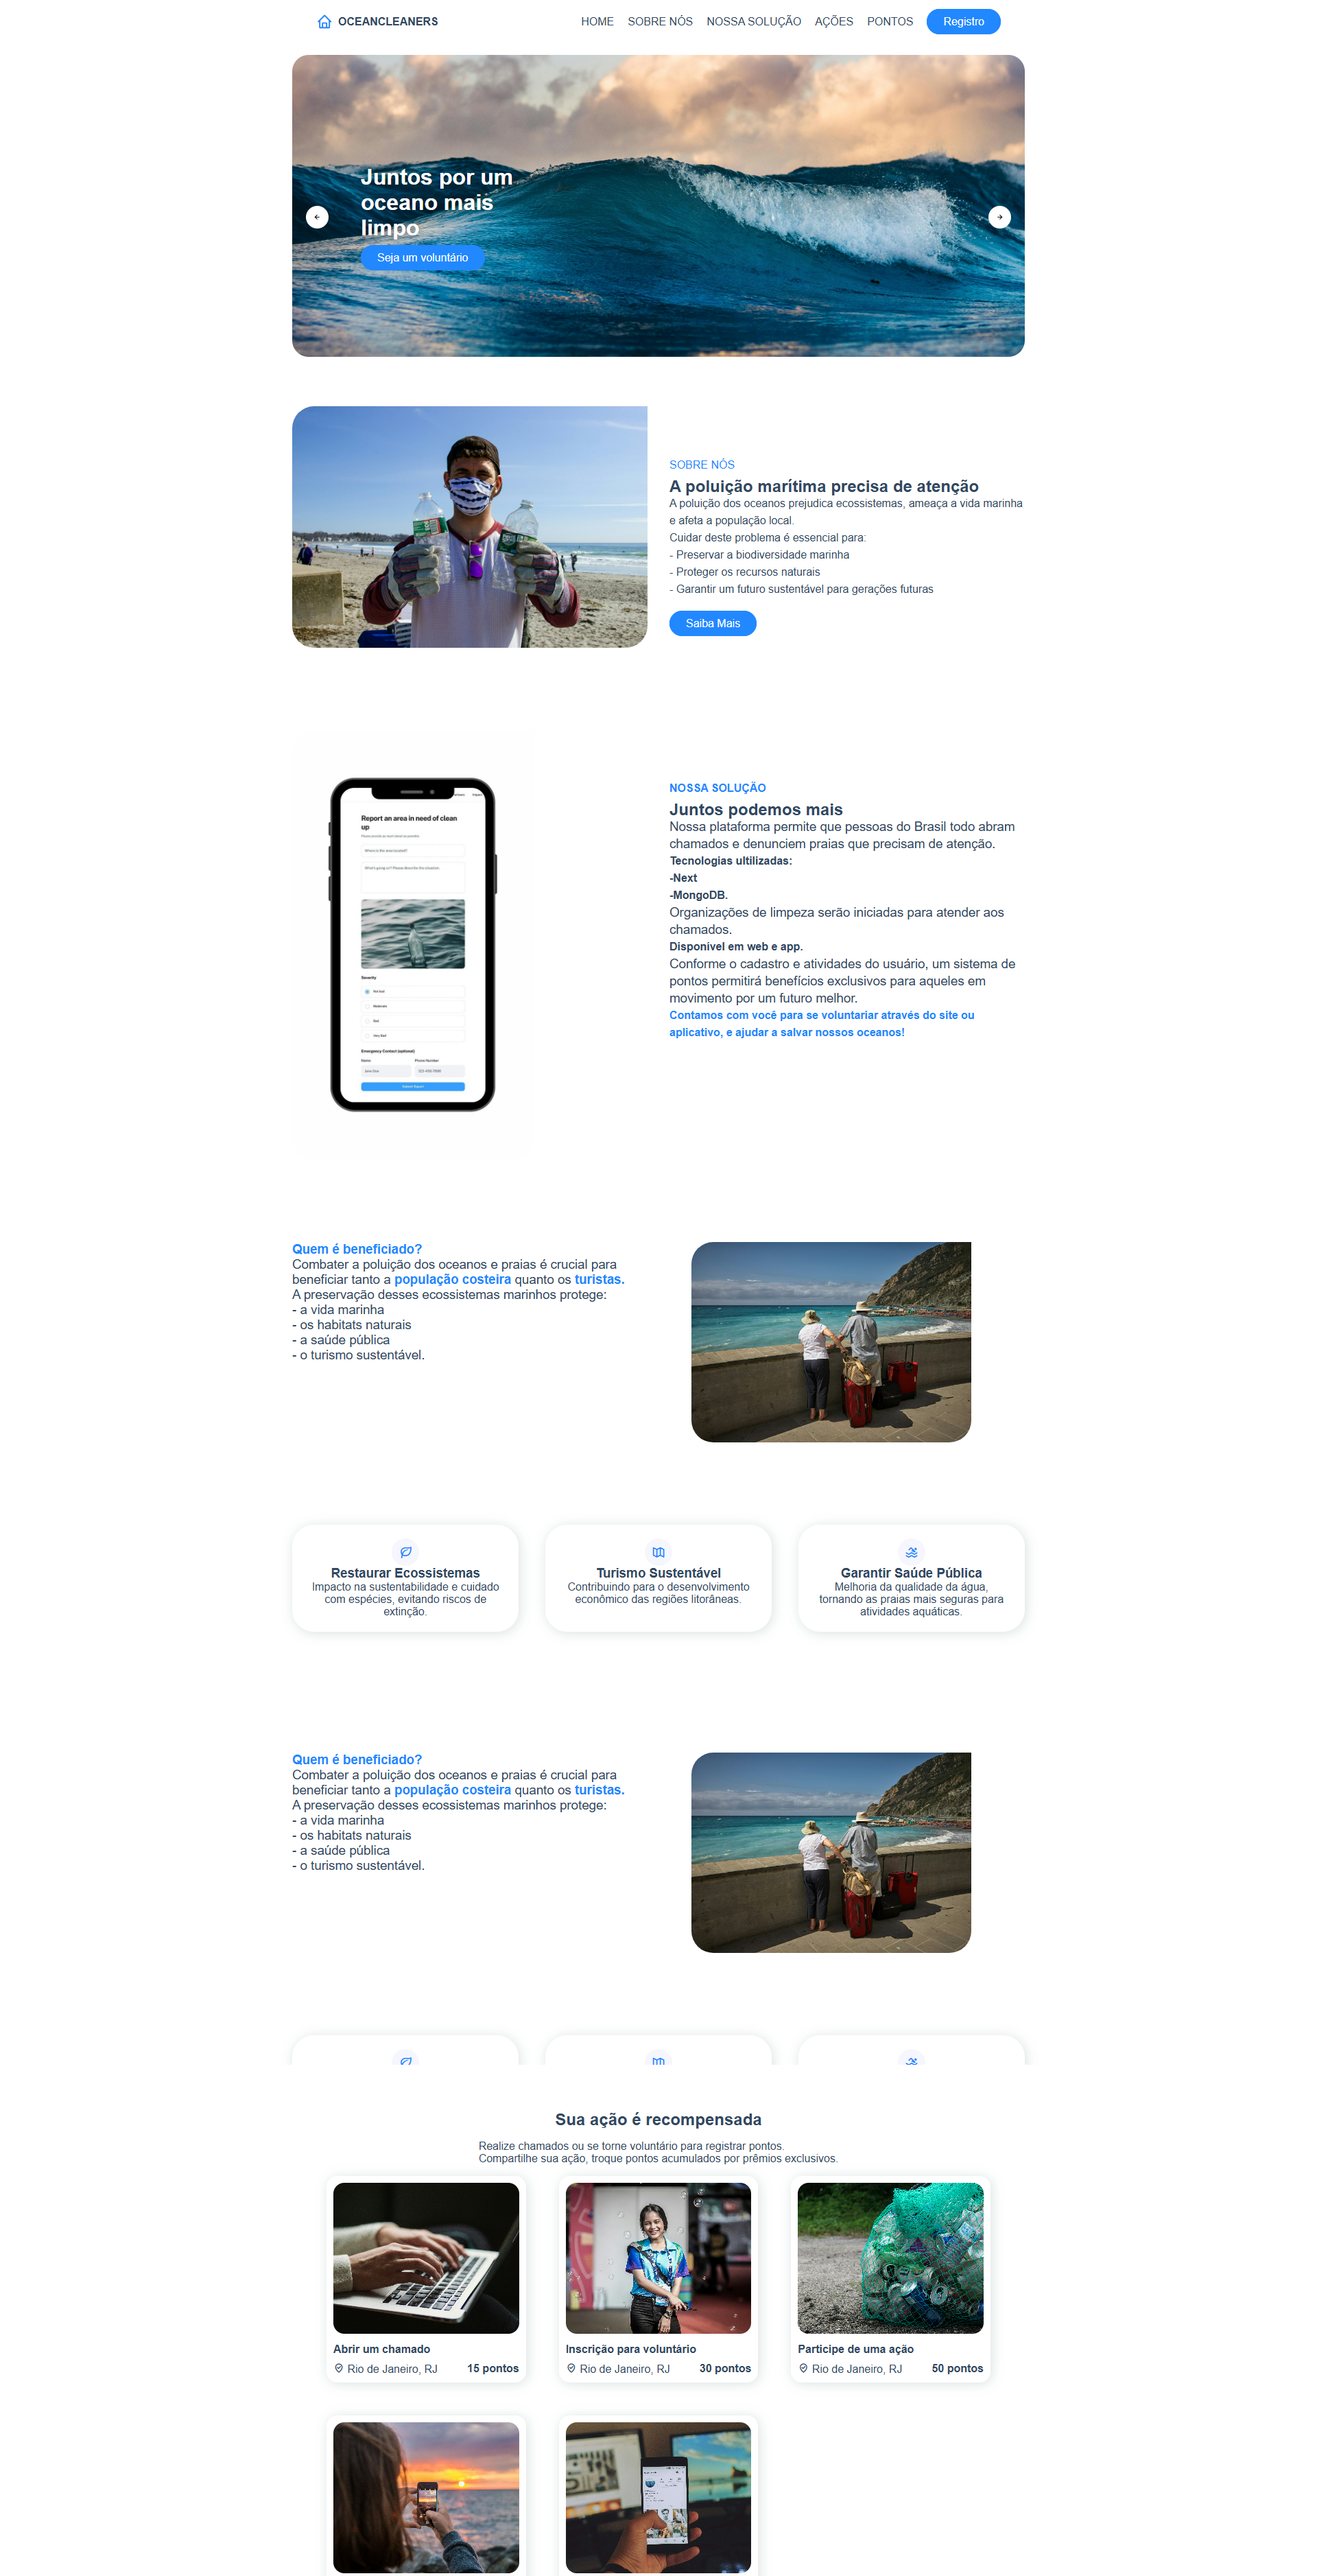
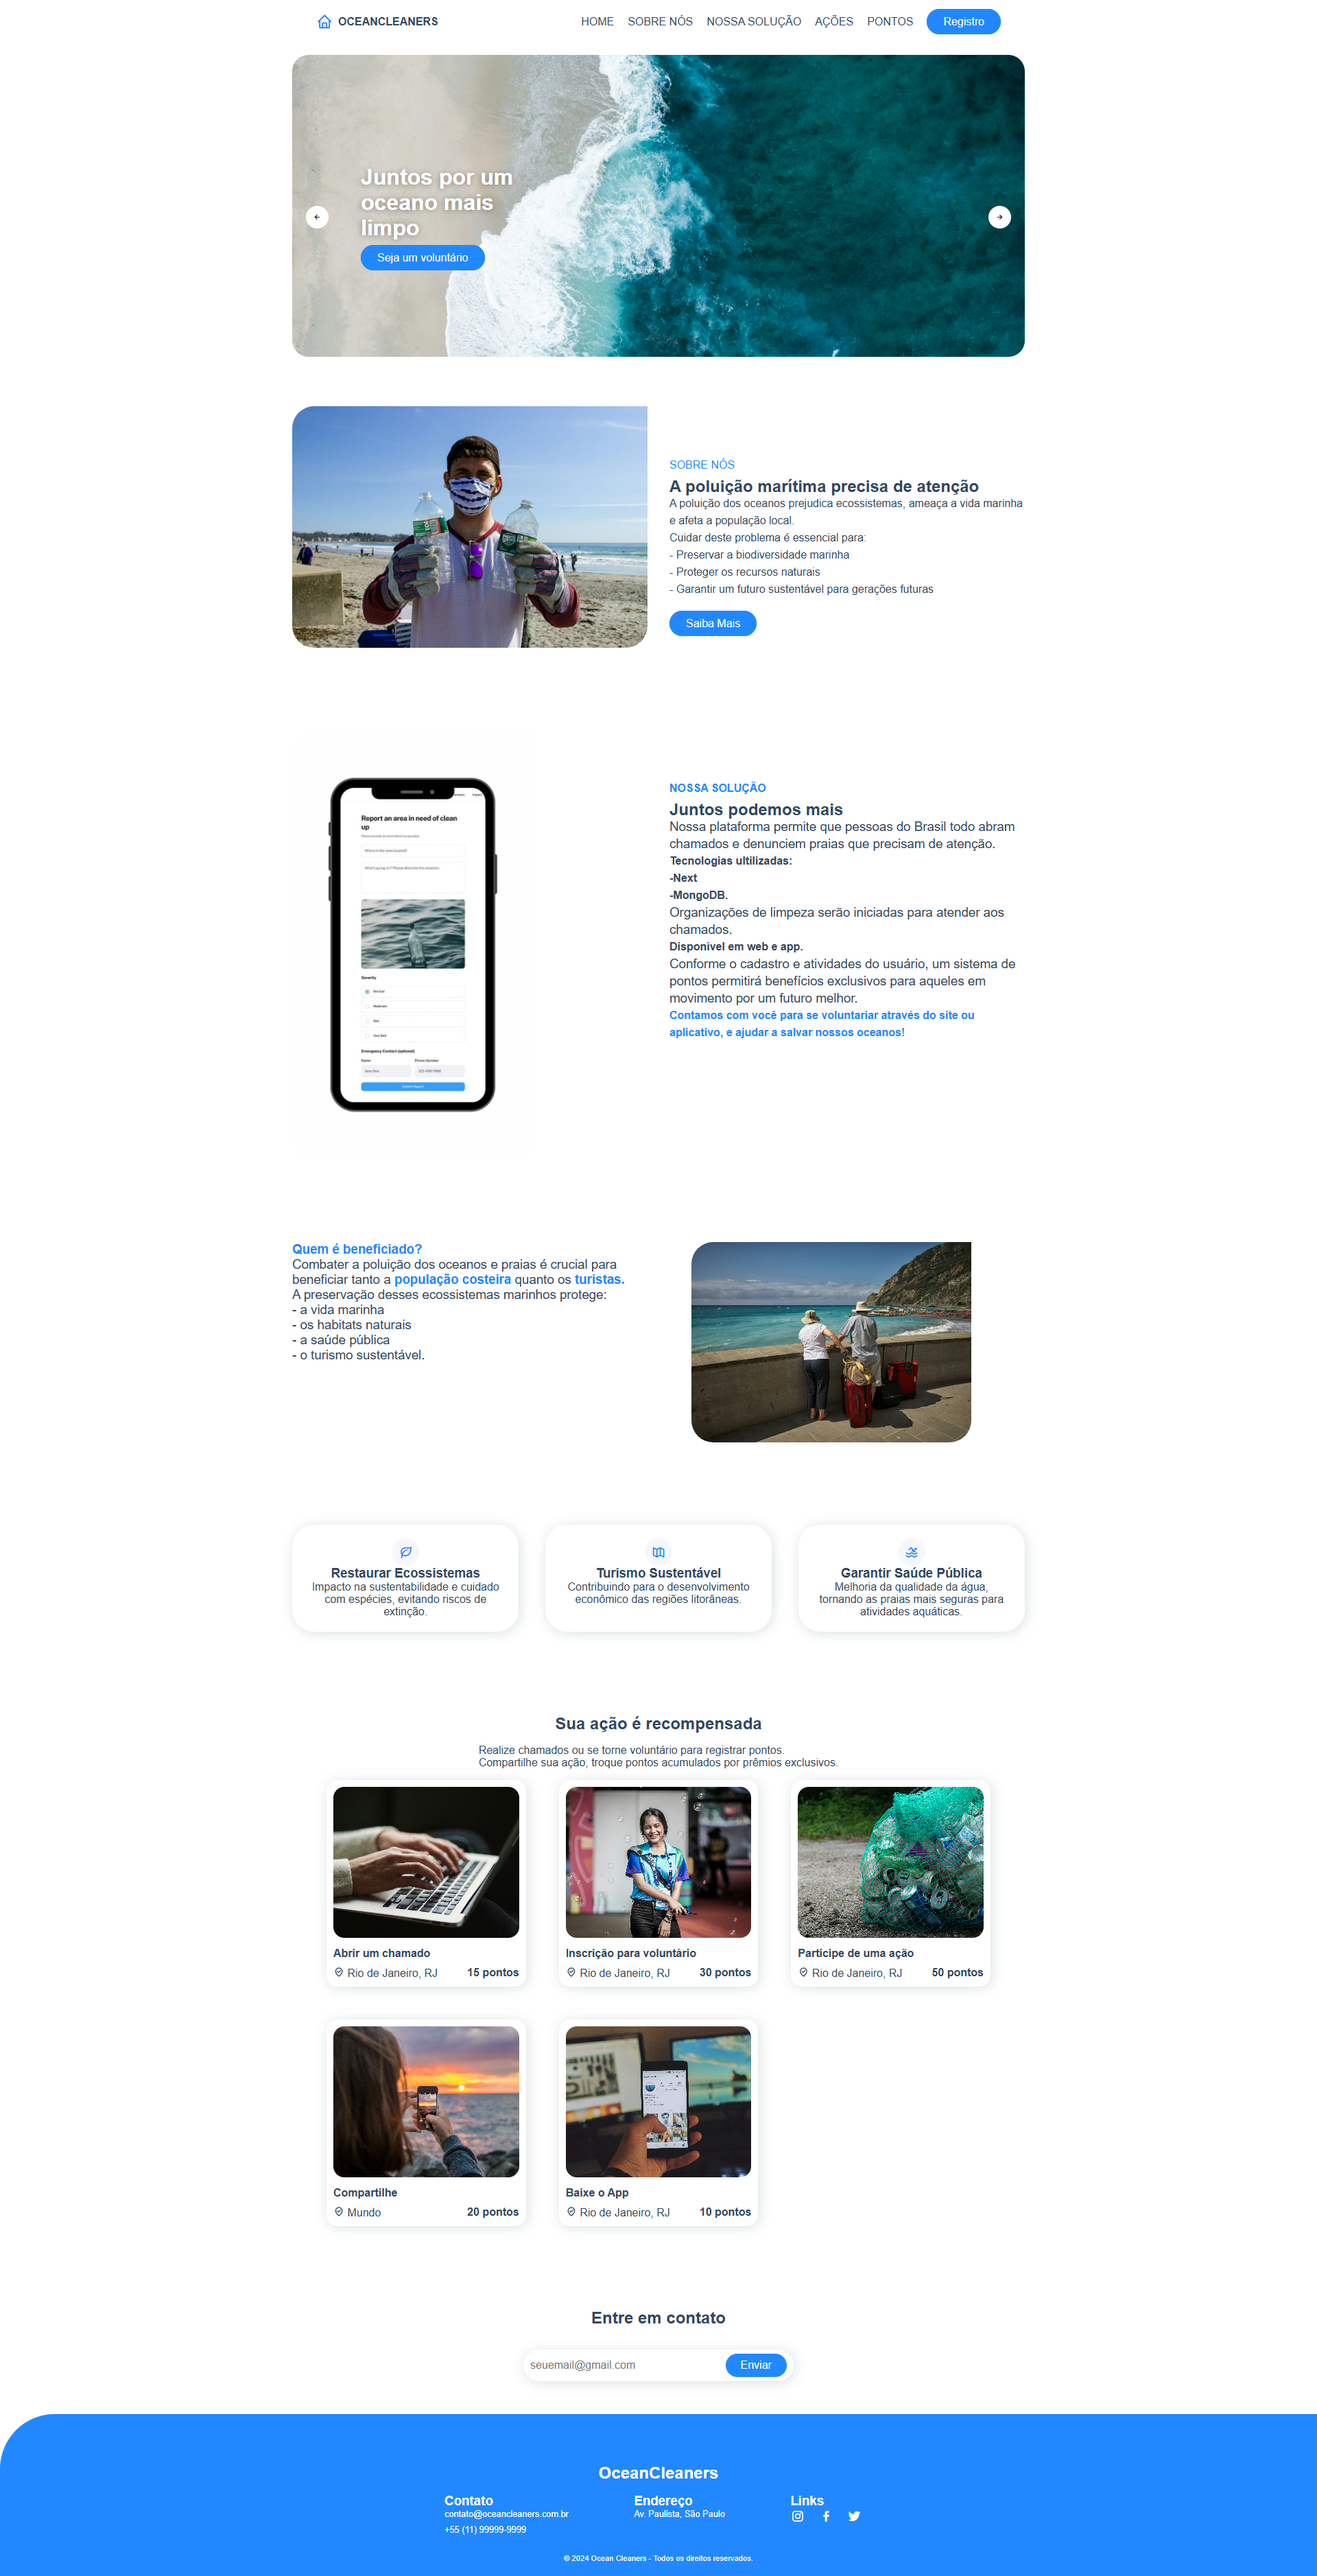
Corrigir imagem de preview do index

Changed region(s): [[0.0, 0.6545, 1.0, 1.0], [0.2188, 0.0, 0.7812, 0.1558]]

diff --git a/index.html b/index.html
@@ -314,6 +314,6 @@
     </footer>
 
     <script src="js/newsletter.js"></script>
-    <script src="js/carrossel.js"></script>
+    <!-- <script src="js/carrossel.js"></script> -->
   </body>
 </html>
